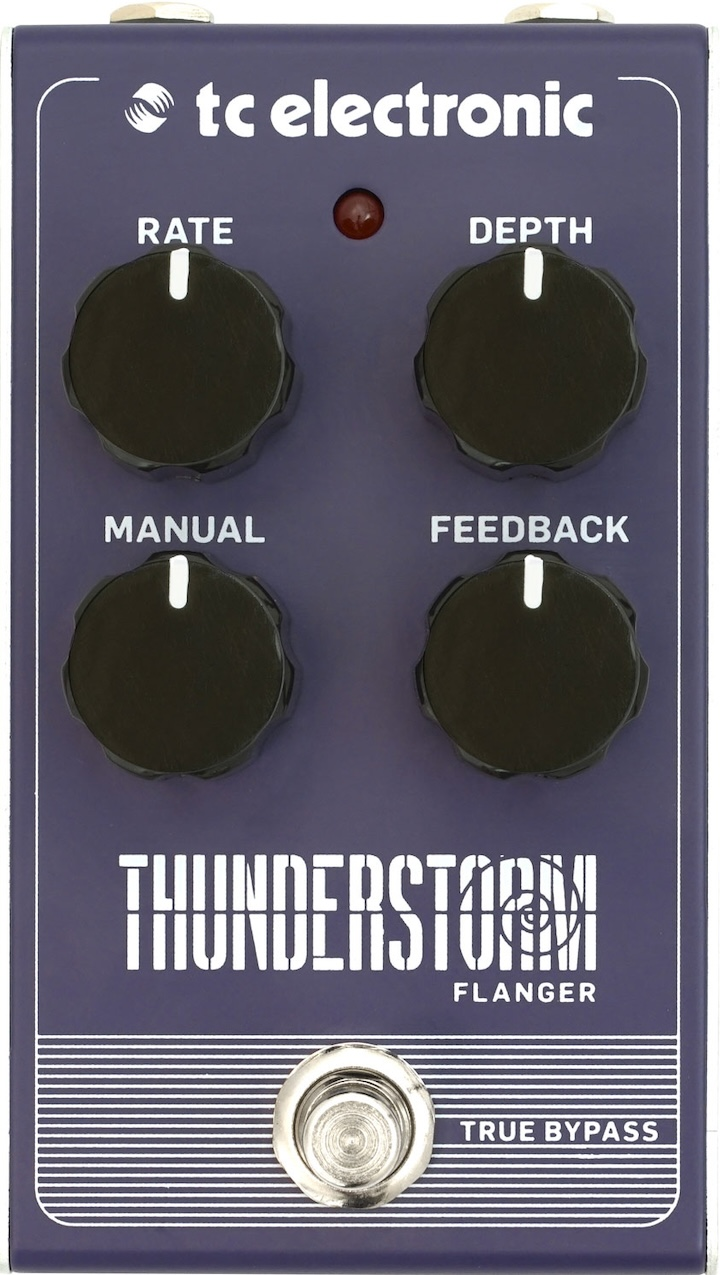
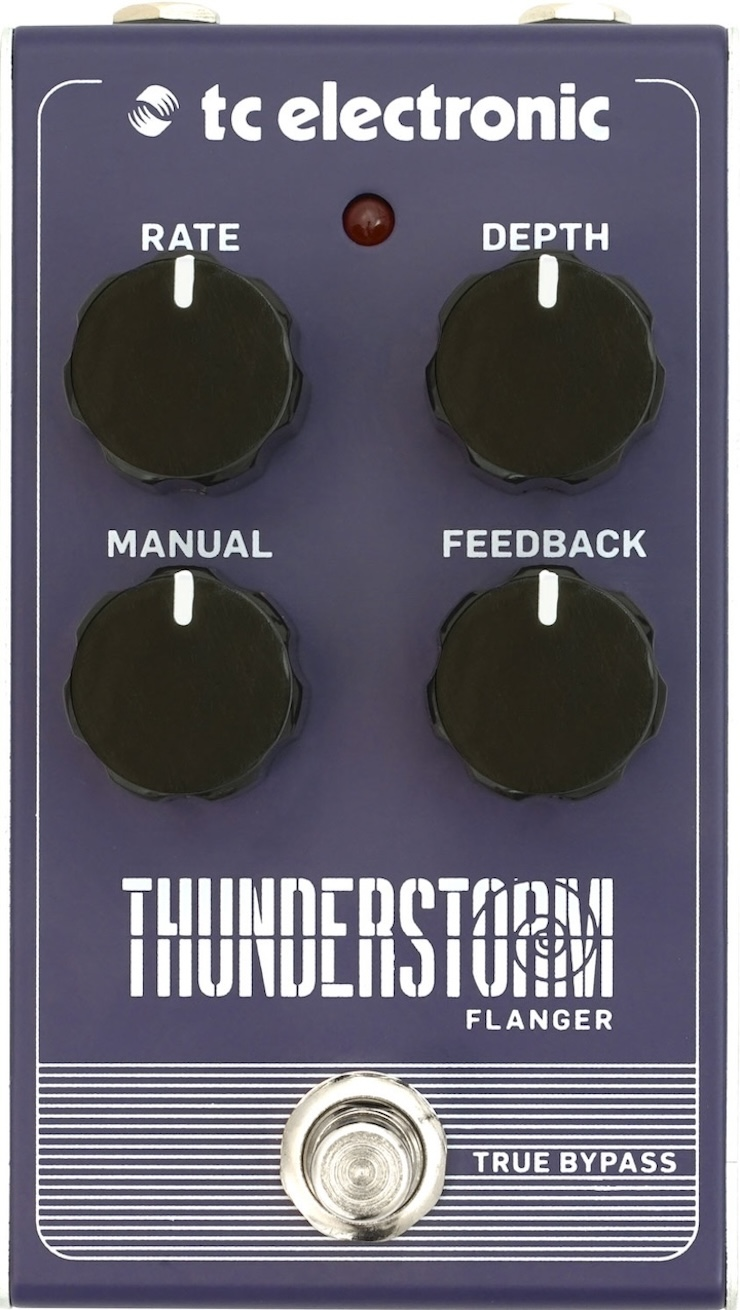
v5

Changed region(s): [[0.4583, 0.8259, 0.4889, 0.8565], [0.0917, 0.9176, 0.1222, 0.9482], [0.0917, 0.8565, 0.1222, 0.8871]]

diff --git a/index.html b/index.html
@@ -5,48 +5,63 @@
     "Polytune 3": { role: "Accordeur", width: 720, height: 1191 },
     DC7: { role: "Alimentation", width: 1600, height: 872 },
     Sol: { role: "Alimentation", width: 1300, height: 874 },
-    "Baby Bomb": { role: "Amp", width: 420, height: 934 },
-    "Baby Bomb 2": { role: "Amp", width: 934, height: 420 },
+    "Baby Bomb": { role: "Amp", width: 934, height: 420 },
     "IR-2": { role: "Amp & Cab", width: 730, height: 1294 },
     "AW-3": { role: "Auto Wah", width: 730, height: 1290 },
     "Dyna Comp Custom": { role: "Compresseur", width: 640, height: 1088 },
-    Thunderstorm: { role: "Flanger", width: 720, height: 1275 },
+    Thunderstorm: { role: "Flanger", width: 740, height: 1310 },
     "NS-2": { role: "Noise Gate", width: 730, height: 1289 },
     "DOD 250": { role: "Overdrive", width: 670, height: 1071 },
     "Pitch Fork": { role: "Pitch Shifter", width: 750, height: 1158 },
     "WL-50": { role: "Récepteur", width: 730, height: 1224 },
     Choka: { role: "Tremolo", width: 740, height: 1315 },
-    "Plethora X3": { width: 1770, height: 1155 },
+    FS05: { width: 700, height: 1209 },
+    "HX Effects": { width: 2740, height: 1936 },
+    "HX One": { width: 960, height: 1254 },
     Amp1: { width: 2450, height: 1867 },
     AmpX: { width: 4260, height: 2101 },
-    "HX Effects": { width: 2740, height: 1936 },
   };
 
   const boards = [
+    // Pedals
     [
+      ["Baby Bomb", "w-1400", "DC7"],
       ["WL-50", "Polytune 3", "Choka", "Dyna Comp Custom", "NS-2"],
       ["AW-3", "Pitch Fork", "Thunderstorm", "DOD 250", "IR-2"],
     ],
+
+    // Pedals HX Effects
     [
-      ["WL-50", "Dyna Comp Custom", "w-300", "Baby Bomb 2", "w-300", "DC7"],
-      ["AW-3", "Pitch Fork", "Plethora X3", "DOD 250", "IR-2"],
+      ["WL-50", "w-400", "Baby Bomb", "w-400", "DC7"],
+      ["AW-3", "HX Effects", "IR-2"],
     ],
+
+    // Pedals Amp1
     [
       ["WL-50", "Polytune 3", "Dyna Comp Custom", "w-1600", "DC7"],
       ["AW-3", "Pitch Fork", "Thunderstorm", "Choka", "Amp1"],
     ],
+
+    // FS05 Amp1
     [
-      ["WL-50", "w-800", "Baby Bomb 2", "w-800", "DC7"],
-      ["AW-3", "HX Effects", "DOD 250", "IR-2"],
+      ["WL-50", "Polytune 3", "Dyna Comp Custom", "w-300", "Sol"],
+      ["Pitch Fork", "FS05", "Amp1"],
     ],
+
+    // HX Effects Amp1
     [
-      ["WL-50", "w-2200", "Sol"],
-      ["AW-3", "HX Effects", "IR-2"],
+      ["WL-50", "w-4000", "Sol"],
+      ["AW-3", "HX Effects", "Amp1"],
     ],
-    [["WL-50", "AW-3", "HX Effects", "Amp1"]],
+
+    // HX One Amp1
+    [
+      ["WL-50", "w-2300", "Sol"],
+      ["AW-3", "HX One", "Amp1"],
+    ],
+
+    // AmpX
     [["WL-50", "AW-3", "Pitch Fork", "AmpX"]],
-    [["WL-50", "AW-3", "AmpX"]],
-    [["WL-50", "AmpX"]],
   ];
 </script>
 
